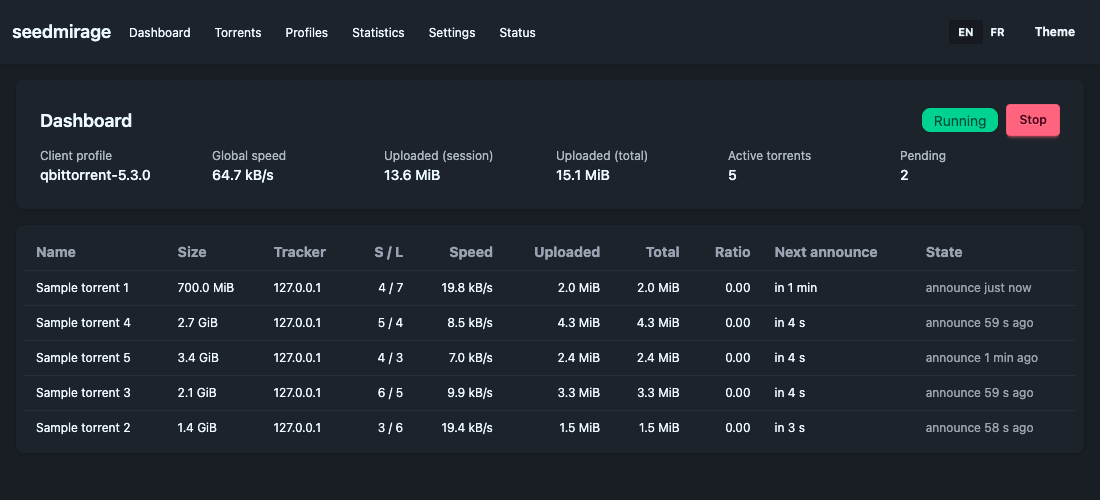
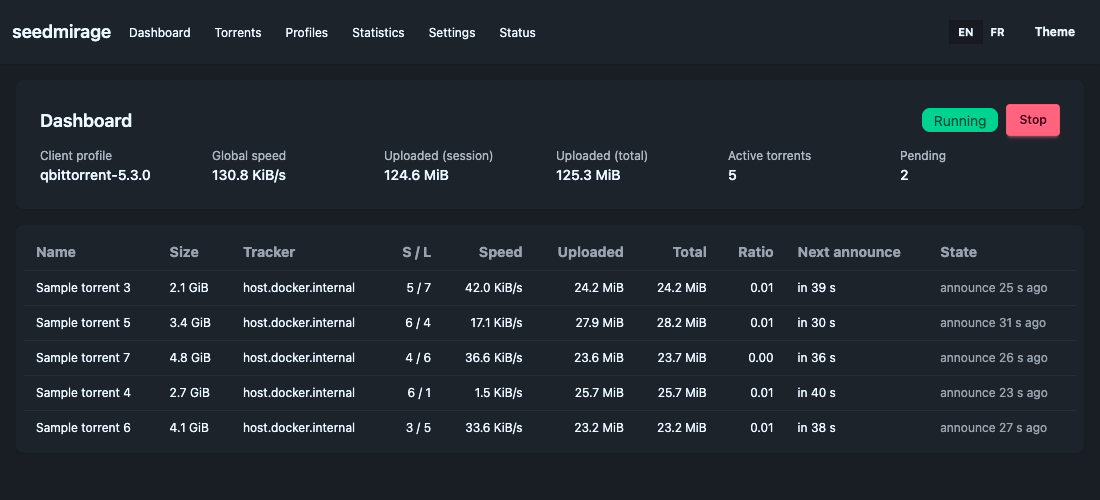
Finitions : captures à jour, commentaires en anglais, axes des statistiques

diff --git a/internal/web/static/stats.js b/internal/web/static/stats.js
@@ -58,7 +58,7 @@
     var common = { stroke: p.text, grid: { stroke: p.grid, width: 1 }, ticks: { stroke: p.grid, width: 1 }, font: "11px sans-serif" };
     return [
       Object.assign({}, common, {
-        space: 60,
+        space: 90,
         // Dates et heures dans la langue de la page (<html lang>), pas dans celle d'uPlot.
         values: function (u, splits, axisIdx, foundSpace, foundIncr) {
           var opts = { hour: "2-digit", minute: "2-digit" };
@@ -79,7 +79,7 @@
         },
       }),
       Object.assign({}, common, {
-        size: 64,
+        size: 76,
         values: function (u, vals) {
           return vals.map(function (v) {
             return fmtBytes(v) + unit;

diff --git a/scripts/capture/reduce/main.go b/scripts/capture/reduce/main.go
@@ -1,10 +1,10 @@
-// Commande reduce : prépare une capture (sortie de `seedmirage capture`) pour qu'elle serve de fixture de test.
+// Command reduce prepares a capture (the output of `seedmirage capture`) so it can serve as a test fixture.
 //
-//	go run ./scripts/capture/reduce <dossier de capture> <dossier de sortie>
+//	go run ./scripts/capture/reduce <capture dir> <output dir>
 //
-// Elle ne garde que les annonces (HTTP /announce et UDP BEP 15 : pas les scrapes ni les connect),
-// remplace les adresses IP publiques annoncées par les clients (paramètres ip, ipv4, ipv6) par des
-// adresses de documentation et copie manifest.json. Le profil déduit (<famille>-<version>.json) est copié tel quel.
+// It keeps only the announces (HTTP /announce and UDP BEP 15: no scrapes or connects),
+// replaces the public IP addresses announced by the clients (ip, ipv4, ipv6 parameters) with
+// documentation addresses and copies manifest.json. The inferred profile (<family>-<version>.json) is copied as is.
 package main
 
 import (
@@ -33,7 +33,7 @@ func scrub(s string) string {
 
 func main() {
 	if len(os.Args) != 3 {
-		fmt.Fprintln(os.Stderr, "usage : reduce <dossier de capture> <dossier de sortie>")
+		fmt.Fprintln(os.Stderr, "usage: reduce <capture dir> <output dir>")
 		os.Exit(2)
 	}
 	if err := run(os.Args[1], os.Args[2]); err != nil {
@@ -43,7 +43,7 @@ func main() {
 }
 
 func run(in, out string) error {
-	f, err := os.Open(filepath.Join(in, capture.RawFile)) //nolint:gosec // outil local, dossier choisi par l'utilisateur
+	f, err := os.Open(filepath.Join(in, capture.RawFile)) //nolint:gosec // local tool, directory chosen by the user
 	if err != nil {
 		return err
 	}
@@ -52,7 +52,7 @@ func run(in, out string) error {
 	if err != nil {
 		return err
 	}
-	if err := os.MkdirAll(out, 0o750); err != nil { //nolint:gosec // outil local
+	if err := os.MkdirAll(out, 0o750); err != nil { //nolint:gosec // local tool
 		return err
 	}
 	var buf []byte
@@ -81,30 +81,30 @@ func run(in, out string) error {
 		buf = append(buf, append(b, '\n')...)
 		kept++
 	}
-	if err := os.WriteFile(filepath.Join(out, capture.RawFile), buf, 0o600); err != nil { //nolint:gosec // outil local
+	if err := os.WriteFile(filepath.Join(out, capture.RawFile), buf, 0o600); err != nil { //nolint:gosec // local tool
 		return err
 	}
 	for _, name := range []string{capture.ManifestFile} {
-		b, err := os.ReadFile(filepath.Join(in, name)) //nolint:gosec // outil local
+		b, err := os.ReadFile(filepath.Join(in, name)) //nolint:gosec // local tool
 		if err != nil {
 			return err
 		}
-		if err := os.WriteFile(filepath.Join(out, name), b, 0o600); err != nil { //nolint:gosec // outil local
+		if err := os.WriteFile(filepath.Join(out, name), b, 0o600); err != nil { //nolint:gosec // local tool
 			return err
 		}
 	}
 	profiles, _ := filepath.Glob(filepath.Join(in, "*.json"))
 	for _, p := range profiles {
 		if base := filepath.Base(p); base != capture.ManifestFile {
-			b, err := os.ReadFile(p) //nolint:gosec // outil local
+			b, err := os.ReadFile(p) //nolint:gosec // local tool
 			if err != nil {
 				return err
 			}
-			if err := os.WriteFile(filepath.Join(out, "captured-profile.json"), b, 0o600); err != nil { //nolint:gosec // outil local
+			if err := os.WriteFile(filepath.Join(out, "captured-profile.json"), b, 0o600); err != nil { //nolint:gosec // local tool
 				return err
 			}
 		}
 	}
-	fmt.Printf("%d annonces conservées sur %d enregistrements\n", kept, len(recs))
+	fmt.Printf("%d announces kept out of %d records\n", kept, len(recs))
 	return nil
 }

diff --git a/scripts/demo-tracker/main.go b/scripts/demo-tracker/main.go
@@ -1,6 +1,6 @@
-// Command demo-tracker lance un tracker HTTP factice local (internal/trackertest)
-// et crée quelques .torrent de démonstration qui le pointent, pour essayer
-// l'interface de seedmirage sans aucun tracker réel.
+// Command demo-tracker runs a local fake HTTP tracker (internal/trackertest)
+// and creates a few demo .torrent files pointing at it, to try out the
+// seedmirage UI without any real tracker.
 //
 //	go run ./scripts/demo-tracker --dir ./data/torrents
 //	make run
@@ -23,10 +23,10 @@ import (
 const pieceLen = 256 << 10
 
 func main() {
-	listen := flag.String("listen", "127.0.0.1:6969", "adresse du tracker factice")
-	dir := flag.String("dir", "data/torrents", "dossier où écrire les .torrent de démonstration (vide : n'en crée pas)")
-	count := flag.Int("count", 4, "nombre de .torrent de démonstration")
-	interval := flag.Int("interval", 30, "interval d'annonce renvoyé, en secondes")
+	listen := flag.String("listen", "127.0.0.1:6969", "address of the fake tracker")
+	dir := flag.String("dir", "data/torrents", "directory where the demo .torrent files are written (empty: create none)")
+	count := flag.Int("count", 4, "number of demo .torrent files")
+	interval := flag.Int("interval", 30, "announce interval returned, in seconds")
 	flag.Parse()
 
 	tr, err := trackertest.ListenHTTP(*listen)
@@ -38,23 +38,23 @@ func main() {
 	n := 0
 	tr.Respond(func(r trackertest.Request) trackertest.Response {
 		n++
-		// Seeders et leechers varient un peu pour que le tableau de bord vive.
+		// Seeders and leechers vary a little so the dashboard looks alive.
 		leechers := 1 + n%7
 		if n%11 == 0 {
-			leechers = 0 // un essaim sans leecher de temps en temps
+			leechers = 0 // a swarm without leechers from time to time
 		}
 		log.Printf("announce #%d %s", n, r.Path)
 		return trackertest.OK(*interval, 3+n%4, leechers)
 	})
 
 	if *dir != "" {
-		if err := os.MkdirAll(*dir, 0o755); err != nil { //nolint:gosec // dossier de démonstration local
+		if err := os.MkdirAll(*dir, 0o755); err != nil { //nolint:gosec // local demo directory
 			log.Fatalf("demo-tracker: %v", err)
 		}
 		for i := 1; i <= *count; i++ {
 			path := filepath.Join(*dir, fmt.Sprintf("demo-%d.torrent", i))
 			if _, err := os.Stat(path); err == nil {
-				continue // jamais d'écrasement
+				continue // never overwrite
 			}
 			size := int64(i) * (700 << 20)
 			if err := os.WriteFile(path, demoTorrent(tr.AnnounceURL(), i, size), 0o600); err != nil {
@@ -63,20 +63,20 @@ func main() {
 		}
 	}
 
-	fmt.Printf("demo-tracker : %s (torrents de démonstration dans %q)\n", tr.AnnounceURL(), *dir)
+	fmt.Printf("demo-tracker: %s (demo torrents in %q)\n", tr.AnnounceURL(), *dir)
 	ctx, stop := signal.NotifyContext(context.Background(), os.Interrupt, syscall.SIGTERM)
 	defer stop()
 	<-ctx.Done()
 }
 
-// demoTorrent fabrique un .torrent valide (contenu fictif, jamais transféré).
+// demoTorrent builds a valid .torrent (fake content, never transferred).
 func demoTorrent(announce string, i int, size int64) []byte {
 	pieces := make([]byte, 20*((size+pieceLen-1)/pieceLen))
 	for j := range pieces {
 		pieces[j] = byte(uint(i+j) & 0xff)
 	}
 	info := bencode.NewDict(map[string]bencode.Value{
-		"name":         bencode.String(fmt.Sprintf("Démo %d (fictif)", i)),
+		"name":         bencode.String(fmt.Sprintf("Sample torrent %d", i)),
 		"length":       bencode.Int(size),
 		"piece length": bencode.Int(pieceLen),
 		"pieces":       bencode.String(pieces),
